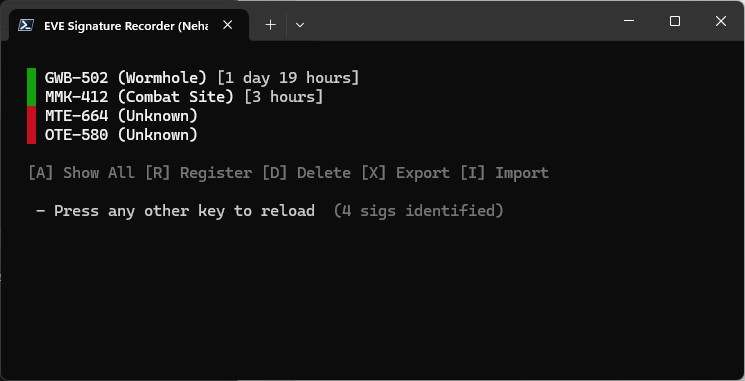
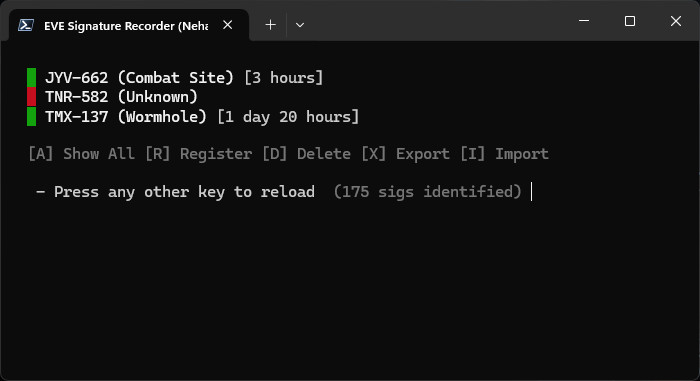
Revise README.md for clarity and conciseness: simplified tool description, added quick start instructions for Windows and Mac users, and updated menu options. Also, replace the image with a new version for better representation.

Changed region(s): [[0.03, 0.1732, 0.78, 0.5774], [0.33, 0.0, 1.0, 1.0], [0.0, 0.0, 0.39, 0.1155]]

diff --git a/README.md b/README.md
@@ -1,94 +1,55 @@
 # EVE Signature Tracker
 
-A PowerShell-based signature tracking tool for EVE Online that helps you manage and share cosmic signatures discovered during exploration.
+A simple tool to track cosmic signatures in EVE Online. Automatically detects signatures from your clipboard and helps you manage exploration data.
 
-![EVE Signature Tracker in Action](https://raw.githubusercontent.com/andershaga/eve-sigs/refs/heads/main/assets/evesigs.jpg)
+![EVE Signature Tracker](assets/evesigs.jpg)
 
+## Quick Start
 
-## What is this?
+### Windows Users
+1. **Double-click** `EVE Sig Analyzer.lnk` to run the tool
+2. **Copy** signature data from EVE's scanner
+3. **Press any key** - the tool reads your clipboard automatically
 
-This tool helps EVE Online explorers track cosmic signatures (wormholes, data sites, relic sites, etc.) by:
-- Automatically detecting signatures from EVE's clipboard
-- Storing signature data locally with timestamps
-- Allowing manual registration of signatures
-- Supporting data sharing between players
-- Showing signature age to help with cleanup
+### Mac Users
+1. **Open Terminal**
+2. **Navigate** to the folder: `cd /path/to/eve-sigs`
+3. **Run**: `powershell -ExecutionPolicy Bypass -File evesigs.ps1`
+4. **Copy** signature data from EVE's scanner
+5. **Press any key** - the tool reads your clipboard automatically
 
-## Features
+## What It Does
 
-- **Automatic Detection**: Automatically reads EVE signature data from your clipboard
-- **Local Storage**: Keeps track of signatures in a CSV file
-- **Age Tracking**: Shows how old signatures are (e.g., "1dh13" = 1 day 13 hours)
-- **Data Sharing**: Export/import signature data between players
-- **Manual Registration**: Add signatures manually with group selection
-- **Duplicate Handling**: Smart merging when importing shared data
-- **UTC Timestamps**: No timezone issues when sharing between players
-- **Automatic Cleanup**: Removes signatures older than 3 days automatically
+- **Auto-detects** signatures from EVE's clipboard
+- **Stores** data locally with timestamps
+- **Shows** signature age (e.g., "1 day 13 hours")
+- **Shares** data between players
+- **Cleans up** old signatures automatically
 
-## How to Use
+## Menu Options
 
-### Basic Usage
+- **[A]** Show all signatures
+- **[R]** Add signature manually
+- **[D]** Delete signature
+- **[X]** Export data for sharing
+- **[I]** Import shared data
 
-1. **Run the script**: `powershell -ExecutionPolicy Bypass -File evesigs.ps1`
-   - *Alternatively, you can use the "EVE Sig Analyzer" shortcut to run the script*
-2. **Copy EVE data**: Copy signature data from EVE's signature scanner
-3. **Press any key**: The script automatically reads your clipboard and processes the data
-4. **View results**: See which signatures are new, updated, or already known
+## Data Sharing
 
-### Menu Options
+**Export**: Press `X` - data copied to clipboard
+**Import**: Press `I` - paste shared data
 
-- **[A] Show All**: Display all stored signatures
-- **[R] Register**: Manually add a signature (ID + group selection)
-- **[D] Delete**: Remove signatures by ID
-- **[X] Export**: Export all signatures to clipboard for sharing
-- **[I] Import**: Import shared signature data from other players
-
-### Manual Registration
-
-1. Press `R` for manual registration
-2. Enter signature ID (e.g., "NEH-246")
-3. Select group type:
-   - `1` - Combat Site
-   - `2` - Data Site
-   - `3` - Gas Site
-   - `4` - Relic Site
-   - `5` - Wormhole
-
-### Data Sharing
-
-**Exporting:**
-1. Press `X` to export all signatures
-2. Data is copied to clipboard as a single line
-3. Share this line with other players
-
-**Importing:**
-1. Press `I` to import shared data
-2. Paste the shared data line
-3. Script automatically merges data, favoring oldest timestamps
-
-## EVE Data Format
-
-The tool expects EVE's standard clipboard format:
-```
-HJA-862	Cosmic Signature	Wormhole	Unstable Wormhole	100,0%	4,76 AU
-KOC-906	Cosmic Signature	Data Site	Limited Sleeper Cache	0,0%	3,40 AU
-```
-
-## File Structure
+## Files
 
 - `evesigs.ps1` - Main script
-- `evesigs.csv` - Local signature database (created automatically)
-- `EVE Sig Analyzer.lnk` - Windows shortcut
+- `evesigs.csv` - Your signature database (auto-created)
+- `EVE Sig Analyzer.lnk` - Windows shortcut only
 
 ## Requirements
 
-- Windows PowerShell
-
-## Credits
-
-Made by: Nehalennia  
-Started: 2020-26-10
+- **Windows**: PowerShell (built-in)
+- **Mac**: PowerShell Core (install via Homebrew: `brew install powershell`)
 
 ---
 
-*This tool is designed for EVE Online exploration and signature scanning. It helps track cosmic signatures across wormhole space and other exploration areas.* 
+*Made by Nehalennia | Started 2020-10-26*
